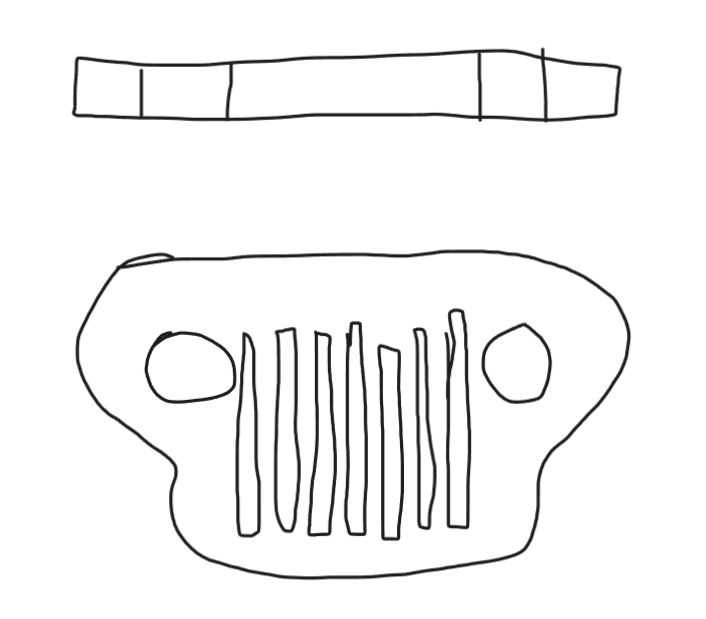
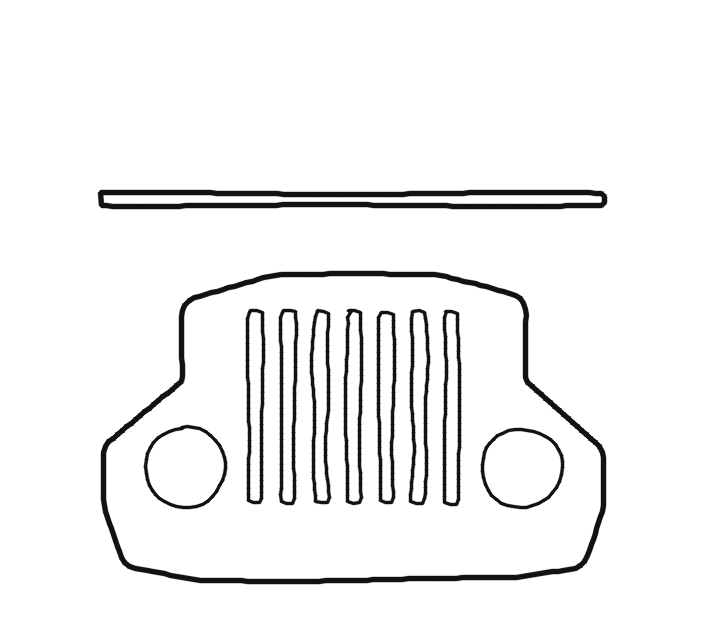
003 grille: re-ink benchmark drawing from ground-truth STL; keep original as as-drawn variant (issue #68 data)

diff --git a/benchmarks/tools/gen_doodle_from_stl.py b/benchmarks/tools/gen_doodle_from_stl.py
@@ -1,0 +1,185 @@
+#!/usr/bin/env python3
+"""Re-ink a user-supplied doodle from its own ground-truth STL (issue #68 data fix).
+
+User-supplied benchmark drawings can carry ink proportions that contradict the
+reference STL (case 003: the edge strip reads ~20 mm thick while the STL is
+3 mm). This tool redraws the sheet FROM the trusted STL: a mid-thickness slice
+gives the true outer silhouette plus every through-opening; the top view is
+the true bounding strip. Both views share one px/mm scale, so the ink and the
+reference pair up. Stroke jitter keeps the hand-drawn look; jitter stays
+small enough that the evaluator's circularity and profile gates still fire.
+
+Usage:
+  PYTHONPATH=<repo> python benchmarks/tools/gen_doodle_from_stl.py \
+    --stl ground_truth/model.stl --out derived/drawing-adapted.png \
+    [--sheet 706 619] [--scale 4.0] [--seed 3]
+
+The slice is implemented with numpy only (no scipy): intersect triangles with
+the plane, then chain segments into closed loops.
+"""
+from __future__ import annotations
+
+import argparse
+import hashlib
+import json
+import random
+from pathlib import Path
+
+import cv2
+import numpy as np
+import trimesh
+
+INK = (18, 18, 18)
+
+
+def horizontal_slice(mesh: trimesh.Trimesh, z: float) -> list[np.ndarray]:
+    """Return closed loops (N,2 xy arrays) of the mesh cross-section at z."""
+    v = mesh.vertices
+    f = mesh.faces
+    zc = v[f, 2]  # (T,3)
+    above, below = zc > z, zc < z
+    crossing = (above.any(1) & below.any(1))
+    segs = []
+    idx = np.nonzero(crossing)[0]
+    for t in idx:
+        pts = v[f[t]]
+        zs = zc[t]
+        hits = []
+        for a, b in ((0, 1), (1, 2), (2, 0)):
+            za, zb = zs[a], zs[b]
+            if (za - z) == 0 or (zb - z) == 0:
+                continue
+            if (za > z) != (zb > z):
+                frac = (z - za) / (zb - za)
+                hits.append(pts[a] + frac * (pts[b] - pts[a]))
+        if len(hits) == 2:
+            segs.append((hits[0][:2], hits[1][:2]))
+    # chain segments into loops using a rounded-endpoint map
+    key = lambda p: (round(float(p[0]), 5), round(float(p[1]), 5))
+    # Adjacent triangles sharing an edge on the plane each emit the same cut
+    # segment; duplicates make the greedy chain below zig-zag them into
+    # back-and-forth scribbles. Dedupe by unordered endpoint pair first.
+    seen = set()
+    unique = []
+    for a, b in segs:
+        ka, kb = key(a), key(b)
+        sig = (ka, kb) if ka <= kb else (kb, ka)
+        if sig in seen or ka == kb:
+            continue
+        seen.add(sig)
+        unique.append((a, b))
+    segs = unique
+    adj: dict = {}
+    for i, (a, b) in enumerate(segs):
+        adj.setdefault(key(a), []).append((i, "ab"))
+        adj.setdefault(key(b), []).append((i, "ba"))
+    used = [False] * len(segs)
+    loops = []
+    for i in range(len(segs)):
+        if used[i]:
+            continue
+        used[i] = True
+        pts = list(segs[i])
+        for end in ("b", "a"):
+            cur = pts[-1] if end == "b" else pts[0]
+            while True:
+                nxt = [(j, d) for (j, d) in adj[key(cur)] if not used[j]]
+                if not nxt:
+                    break
+                j, d = nxt[0]
+                used[j] = True
+                a, b = segs[j]
+                add = b if d == "ab" else a
+                if end == "b":
+                    pts.append(add)
+                else:
+                    pts.insert(0, add)
+                cur = add
+        if end == "a":
+            pts = pts[::-1]
+        loops.append(np.asarray(pts))
+    return loops
+
+
+def jitter(pts: np.ndarray, rng: random.Random, sigma: float) -> np.ndarray:
+    n = len(pts)
+    if n < 3:
+        return pts
+    t = np.linspace(0, 1, n)
+    out = pts.astype(float).copy()
+    amp = sigma * 1.6
+    k1 = rng.uniform(1.0, 2.5) * 2 * np.pi
+    k2 = rng.uniform(2.5, 4.0) * 2 * np.pi
+    p1, p2 = rng.uniform(0, 6.28), rng.uniform(0, 6.28)
+    out[:, 0] += amp * np.sin(k1 * t + p1) + rng.gauss(0, sigma) * np.sin(k2 * t + p2)
+    out[:, 1] += amp * np.sin(k2 * t + p2) + rng.gauss(0, sigma) * np.sin(k1 * t + p1)
+    return out
+
+
+def resample(pts: np.ndarray, step: float = 6.0) -> np.ndarray:
+    d = np.r_[0.0, np.cumsum(np.linalg.norm(np.diff(pts, axis=0), axis=1))]
+    n = max(int(d[-1] // step), 8)
+    t = np.linspace(0, d[-1], n)
+    return np.c_[np.interp(t, d, pts[:, 0]), np.interp(t, d, pts[:, 1])]
+
+
+def draw(canvas: np.ndarray, loop: np.ndarray, offset, rng, sigma=1.2, color=INK, width=3):
+    pts = resample(loop + np.asarray(offset))
+    pts = jitter(pts, rng, sigma)
+    cv2.polylines(canvas, [np.round(pts).astype(np.int32)], True, color, width, cv2.LINE_AA)
+
+
+def main():
+    ap = argparse.ArgumentParser()
+    ap.add_argument("--stl", required=True)
+    ap.add_argument("--out", required=True)
+    ap.add_argument("--sheet", nargs=2, type=int, default=[706, 619])
+    ap.add_argument("--scale", type=float, default=4.0)
+    ap.add_argument("--seed", type=int, default=3)
+    args = ap.parse_args()
+
+    mesh = trimesh.load(args.stl, process=False)
+    lo, hi = mesh.bounds
+    zmid = (lo[2] + hi[2]) / 2
+    loops = horizontal_slice(mesh, zmid)
+    assert loops, "empty slice"
+    areas = [abs(cv2.contourArea(l.astype(np.float32))) for l in loops]
+    outer = int(np.argmax(areas))
+
+    rng = random.Random(args.seed)
+    W, H = args.sheet
+    sheet = np.full((H, W, 3), 255, np.uint8)
+    scale = args.scale
+
+    fw, fh = (hi[0] - lo[0]) * scale, (hi[1] - lo[1]) * scale
+    depth = hi[2] - lo[2]
+
+    # FRONT view bottom-centre, TOP-view strip directly above it (same x span).
+    fx = (W - fw) / 2
+    fy = H - fh - 40
+    draw(sheet, (loops[outer] - lo[:2]) * scale + np.array([fx, fy]), (0, 0), rng)
+    for i, l in enumerate(loops):
+        if i == outer:
+            continue
+        # thin ink + low jitter: a 3.5 mm GT slot at 4 px/mm is 14 px wide and
+        # stays open only if the two 2 px strokes do not merge.
+        draw(sheet, (l - lo[:2]) * scale + np.array([fx, fy]), (0, 0), rng,
+             sigma=0.6, width=2)
+
+    strip_h = max(round(depth * scale), 3)
+    sx, sy = fx, fy - strip_h - 70
+    rect = np.array([[0, 0], [fw, 0], [fw, strip_h], [0, strip_h]], float)
+    draw(sheet, rect, (sx, sy), rng, sigma=0.5)
+
+    Path(args.out).parent.mkdir(parents=True, exist_ok=True)
+    cv2.imwrite(args.out, sheet)
+    info = {"stl": str(args.stl), "stl_sha256": hashlib.sha256(Path(args.stl).read_bytes()).hexdigest(),
+            "scale_px_per_mm": scale, "outer_loops": 1, "inner_loops": len(loops) - 1,
+            "sheet": [W, H], "seed": args.seed,
+            "through_openings_in_front_view": len(loops) - 1,
+            "top_strip_px": [round(fw), strip_h]}
+    print(json.dumps(info, indent=2))
+
+
+if __name__ == "__main__":
+    main()

diff --git a/benchmarks/cases/003_front_grille_multiview/source/README.md b/benchmarks/cases/003_front_grille_multiview/source/README.md
@@ -1,5 +1,16 @@
-# Supplied drawing
+# 003_front_grille_multiview — source files
 
-`drawing.png` is preserved byte-for-byte from the user-supplied image. It shows a large face view with two rounded openings and seven narrow slots, plus a thin projected view above it.
+Two drawings ship with this case:
 
-The vertical divisions in the upper view may be correspondence marks rather than physical seams. They are not represented as features in the supplied reference CAD and must not be scored as required geometry.
+- `drawing.png` — the ACTIVE benchmark input. Re-inked from the ground-truth
+  `../ground_truth/model.stl` by `benchmarks/tools/gen_doodle_from_stl.py`
+  (seed 3, scale 4.0 px/mm, 706x619 sheet) so the ink and the reference agree.
+  The reference user drawing encoded ~20 mm thickness in its edge strip while
+  the STL is 3 mm; that contradiction made the reference unreachable for any
+  depth inference. See `../manifest.json` -> `provenance.ink_adaptation`.
+- `drawing-as-drawn.png` — the ORIGINAL user-supplied hand drawing, preserved
+  verbatim (its hash is recorded in the manifest) for future ink-ambiguity
+  experiments. Not used for scoring.
+
+`model.scad` and `model.stl` are the untouched user-supplied ground truth
+(pair-verified: identical extents, zero relative volume delta).
